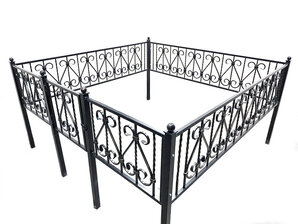
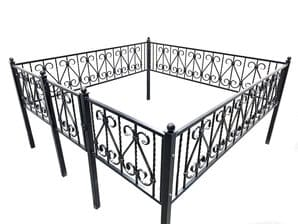
удаление и оптимизация картинок

diff --git a/frontend/views/layouts/main.php b/frontend/views/layouts/main.php
@@ -248,9 +248,6 @@ AppAsset::register($this);
                                 <li class="footer-info-list__item">
                                     <a href="/contacts" class="footer-info-list__link">Контакты</a>
                                 </li>
-<!--                                <li class="footer-info-list__item">-->
-<!--                                    <a href="/privacy" class="footer-info-list__link">Политика конфиденциальности</a>-->
-<!--                                </li>-->
                             </ul>
                         </div>
                         <div class="footer-info__box">
